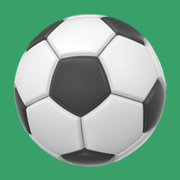
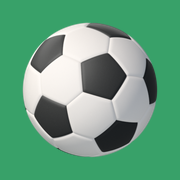
feat(biwenger_tools/web): installable as an app on Android and iPhone (#588)
base.html links /manifest.webmanifest (standalone, start and scope /,
192/512/maskable icons) and registers /sw.js, served from the root with
Cache-Control: no-cache. The worker only answers failed navigations
with static/offline.html and caches nothing else, so a deploy shows on
the next load; it exists because Chrome's automatic install prompt
still wants a fetch handler. CSP gains explicit manifest-src and
worker-src 'self' (both already allowed through their fallbacks).

Icons, including a sharper apple-touch-icon, put Noto Emoji's 3D soccer
ball (Apache 2.0) on the accent green; the maskable one keeps it inside
the safe zone.

diff --git a/packages/biwenger_tools/web/static/offline.html b/packages/biwenger_tools/web/static/offline.html
@@ -1,0 +1,29 @@
+<!DOCTYPE html>
+<html lang="es">
+<head>
+    <meta charset="UTF-8">
+    <meta name="viewport" content="width=device-width, initial-scale=1.0">
+    <meta name="theme-color" content="#38a169">
+    <title>Sin conexión · Lloros League</title>
+    <style>
+        body { margin: 0; min-height: 100vh; display: flex; align-items: center;
+               justify-content: center; background: #f7fafc; color: #2d3748;
+               font-family: Roboto, system-ui, sans-serif; text-align: center; }
+        main { padding: 32px; max-width: 28rem; }
+        .ball { font-size: 64px; line-height: 1; }
+        h1 { font-family: Oswald, system-ui, sans-serif; letter-spacing: 0.05em;
+             margin: 16px 0 8px; }
+        p { color: #4a5568; line-height: 1.6; margin: 0 0 24px; }
+        a { display: inline-block; background: #38a169; color: #fff;
+            padding: 8px 16px; border-radius: 8px; text-decoration: none; }
+    </style>
+</head>
+<body>
+    <main>
+        <div class="ball" aria-hidden="true">⚽</div>
+        <h1>Sin conexión</h1>
+        <p>No hay red ahora mismo. El tablón vuelve en cuanto la haya.</p>
+        <a href="/">Reintentar</a>
+    </main>
+</body>
+</html>

diff --git a/packages/biwenger_tools/web/static/sw.js b/packages/biwenger_tools/web/static/sw.js
@@ -1,0 +1,25 @@
+// Offline fallback for page navigations. Every other request goes straight to
+// the network: nothing else is cached, so a deploy is visible on the next load.
+const CACHE = "offline-v1";
+const OFFLINE_URL = "/static/offline.html";
+
+self.addEventListener("install", (event) => {
+  event.waitUntil(caches.open(CACHE).then((cache) => cache.add(OFFLINE_URL)));
+  self.skipWaiting();
+});
+
+self.addEventListener("activate", (event) => {
+  event.waitUntil(
+    caches
+      .keys()
+      .then((keys) =>
+        Promise.all(keys.filter((key) => key !== CACHE).map((key) => caches.delete(key))),
+      )
+      .then(() => self.clients.claim()),
+  );
+});
+
+self.addEventListener("fetch", (event) => {
+  if (event.request.mode !== "navigate") return;
+  event.respondWith(fetch(event.request).catch(() => caches.match(OFFLINE_URL)));
+});

diff --git a/packages/biwenger_tools/web/templates/base.html b/packages/biwenger_tools/web/templates/base.html
@@ -50,6 +50,7 @@
     <meta name="apple-mobile-web-app-capable" content="yes">
     <meta name="apple-mobile-web-app-status-bar-style" content="default">
     <meta name="theme-color" content="#38a169">
+    <link rel="manifest" href="/manifest.webmanifest">
     <!-- Tailwind ships as the Play CDN, which its own docs call development-only:
          it downloads a compiler and generates styles in the browser on every
          load. The fix is a build step, not an attribute — `defer` was tried and
@@ -256,6 +257,11 @@
         });
 
         document.addEventListener('click', () => seasonMenu.classList.add('hidden'));
+
+        // Installable app: the worker only adds an offline page (static/sw.js).
+        if ('serviceWorker' in navigator) {
+            navigator.serviceWorker.register("/sw.js");
+        }
     </script>
 </body>
 </html>

diff --git a/packages/biwenger_tools/web/routes/main.py b/packages/biwenger_tools/web/routes/main.py
@@ -1,8 +1,11 @@
-"""Main routes: home, favicon, palmares, reglamento, calendario."""
+"""Main routes: home, favicon, the installable-app files, palmares, reglamento,
+calendario."""
 
 import calendar
+import json
 import time
 from datetime import date, datetime
+from pathlib import Path
 
 import icalendar
 import requests
@@ -11,10 +14,12 @@ from flask import (
     Blueprint,
     Response,
     abort,
+    current_app,
     g,
     jsonify,
     redirect,
     render_template,
+    send_from_directory,
     url_for,
 )
 from flask.typing import ResponseReturnValue
@@ -31,6 +36,8 @@ from packages.biwenger_tools.web import config, repository
 
 logger = get_logger(__name__)
 bp = Blueprint("main", __name__)
+
+_STATIC_DIR = Path(__file__).resolve().parent.parent / "static"
 
 # Public "Lloros League" Google Calendar — read-only, season-agnostic.
 # Public by design (see Google Calendar sharing settings), so no secret
@@ -133,6 +140,47 @@ def version() -> Response:
 def favicon() -> tuple:
     """Return empty response for favicon requests."""
     return "", 204
+
+
+def _icon(name: str, size: str, purpose: str = "any") -> dict:
+    return {
+        "src": url_for("static", filename=name),
+        "sizes": size,
+        "type": "image/png",
+        "purpose": purpose,
+    }
+
+
+@bp.route("/manifest.webmanifest")
+def manifest() -> Response:
+    """The web app manifest that lets phones install the site as an app."""
+    body = {
+        "name": "Lloros League",
+        "short_name": "Lloros League",
+        "description": "El tablón de la Lloros League",
+        "lang": "es",
+        "start_url": "/",
+        "scope": "/",
+        "display": "standalone",
+        "background_color": "#f7fafc",
+        "theme_color": "#38a169",
+        "icons": [
+            _icon("icon-192.png", "192x192"),
+            _icon("icon-512.png", "512x512"),
+            _icon("icon-maskable-512.png", "512x512", "maskable"),
+        ],
+    }
+    return current_app.response_class(
+        json.dumps(body, ensure_ascii=False), mimetype="application/manifest+json"
+    )
+
+
+@bp.route("/sw.js")
+def service_worker() -> Response:
+    """The service worker, from the root so its scope is the whole site."""
+    response = send_from_directory(_STATIC_DIR, "sw.js", mimetype="text/javascript")
+    response.headers["Cache-Control"] = "no-cache"
+    return response
 
 
 @bp.route("/")

diff --git a/packages/biwenger_tools/web/tests/test_web_app.py b/packages/biwenger_tools/web/tests/test_web_app.py
@@ -1414,3 +1414,55 @@ def test_a_missing_cursor_is_none_not_a_page():
     client, *_ = _cursor_client(exists=False)
     with patch.object(repository, "get_client", return_value=client):
         assert repository.get_messages_page("26-27", "comunicado", 7, after="x") is None
+
+
+# --- Installable app (PWA) ---
+
+
+def test_the_manifest_declares_an_installable_app(client):
+    """Android's install criteria: a name, a standalone display, a start URL
+    and 192 + 512 icons — each of which must actually be served."""
+    response = client.get("/manifest.webmanifest")
+
+    assert response.status_code == 200
+    assert response.mimetype == "application/manifest+json"
+    manifest = response.get_json(force=True)
+    assert manifest["name"] and manifest["short_name"]
+    assert manifest["start_url"] == "/"
+    assert manifest["scope"] == "/"
+    assert manifest["display"] == "standalone"
+    sizes = {icon["sizes"] for icon in manifest["icons"]}
+    assert {"192x192", "512x512"} <= sizes
+    assert any(icon.get("purpose") == "maskable" for icon in manifest["icons"])
+    for icon in manifest["icons"]:
+        assert client.get(icon["src"]).status_code == 200, icon["src"]
+
+
+def test_the_service_worker_is_served_from_the_root_and_never_cached(client):
+    """Served under /static/ it could only control /static/; cached, a broken
+    worker would outlive its fix."""
+    response = client.get("/sw.js")
+
+    assert response.status_code == 200
+    assert response.mimetype == "text/javascript"
+    assert "no-cache" in response.headers["Cache-Control"]
+    assert 'addEventListener("fetch"' in response.get_data(as_text=True)
+
+
+def test_the_offline_page_the_worker_falls_back_to_exists_and_runs_no_script(
+    client,
+):
+    """The worker precaches it on install; a missing file fails the install."""
+    worker = client.get("/sw.js").get_data(as_text=True)
+    assert "/static/offline.html" in worker
+
+    response = client.get("/static/offline.html")
+    assert response.status_code == 200
+    assert "<script" not in response.get_data(as_text=True)
+
+
+def test_pages_link_the_manifest_and_register_the_worker(client):
+    body = client.get("/reglamento").get_data(as_text=True)
+
+    assert '<link rel="manifest" href="/manifest.webmanifest">' in body
+    assert 'navigator.serviceWorker.register("/sw.js")' in body

diff --git a/packages/biwenger_tools/web/app.py b/packages/biwenger_tools/web/app.py
@@ -28,6 +28,8 @@ CSP = {
     "img-src": ["'self'", "data:", "https://storage.googleapis.com"],
     "frame-src": ["https://www.youtube.com", "https://www.youtube-nocookie.com"],
     "connect-src": ["'self'"],
+    "manifest-src": ["'self'"],
+    "worker-src": ["'self'"],
     "object-src": ["'none'"],
     "base-uri": ["'self'"],
     "form-action": ["'self'"],

diff --git a/packages/biwenger_tools/web/README.md b/packages/biwenger_tools/web/README.md
@@ -21,7 +21,7 @@ Firestore. Se regeneran a mano — ver `docs/` en este módulo.</sub>
 `app.py` builds the Flask app, registers session cookie hardening + CSRF helpers,
 and mounts three blueprints:
 
-- [`routes/main.py`](routes/main.py) — `/version`, `/favicon.ico`, `/`, `/palmares`, `/reglamento`
+- [`routes/main.py`](routes/main.py) — `/version`, `/favicon.ico`, `/manifest.webmanifest`, `/sw.js`, `/`, `/palmares`, `/reglamento`
 - [`routes/season.py`](routes/season.py) — `/<season>/`, `/<season>/salseo`, `/<season>/mercado`, `/<season>/participacion`, `/<season>/lloros-awards` plus the `/api/lloros-awards/*` JSON endpoints
 - [`routes/admin.py`](routes/admin.py) — `/admin` (login + dashboard), `/admin/run-scraper`, `/logout`
 
@@ -39,6 +39,15 @@ never use `|safe` directly on `contenido`.
 Tailwind via CDN + vanilla JavaScript. No build step, no framework. The design
 tokens (colours, typography, components) are documented in
 [`DESIGN.md`](DESIGN.md) — read it before touching templates.
+
+**Installable app (PWA).** Phones can add the site to the home screen and open
+it full screen: `base.html` links `/manifest.webmanifest` and registers
+`/sw.js` (`static/sw.js`), whose only job is `static/offline.html` when there is
+no network — it caches nothing else, so a deploy shows on the next load. On
+Android, Chrome offers "Instalar"; on iPhone, Safari → Share → "Añadir a
+pantalla de inicio". The icons (`static/icon-*.png`, `apple-touch-icon.png`) put
+the 3D soccer ball from [Noto Emoji](https://github.com/googlefonts/noto-emoji)
+(Apache 2.0) on the accent green.
 
 ## ⚙ Local dev
 

diff --git a/PENDING.md b/PENDING.md
@@ -42,7 +42,6 @@ in `STATUS.md` — neither belongs here.
 | ⏳ | What to do when JP and Biwenger disagree on availability | More sightings. **The first real one arrived 19/09**: Haitam, Biwenger `discarded` ("Asuntos incompatibles con la práctica deportiva") against JP's fieldable `other` — so the sensor works and the rate is what the 1-in-481 measurement predicted. One case is still not a rule; JP remains the only source a decision reads |
 | ⏳ | `nextMatch.status == "break"` has never been observed | A break **while a lineup runs** · verified wired, 0 events · same ~20-row window: the sighting needs the status to land on a player I own |
 | ⏳ | Re-measure the auto-bid shares (T1–T4) | More settled auctions — run `scripts/auto_bid/calibrate.py` monthly, **next ~late October** · the first reading (137 auctions, 27/09) set +40/+20/+10/+5 %; the ≥ 10M band had only 9 · [how](packages/biwenger_tools/OPERATIONS.md) |
-| 🔨 | Make `web` an installable PWA (league members get an icon, full screen, no browser bar; Android and iPhone) | ~1 h: `manifest.webmanifest` (name, icons 192/512 + maskable, colours, `display: standalone`), a minimal service worker, `<link rel="manifest">` in `templates/base.html`, and the CSP from #542 allowing `manifest-src 'self'` / `worker-src 'self'` · **not** a Play Store app: tiny private audience, Telegram already does notifications · optional later: a nicer domain than the `run.app` one |
 
 ## my_photos
 

diff --git a/openspec/specs/biwenger_tools/web-dataviz/spec.md b/openspec/specs/biwenger_tools/web-dataviz/spec.md
@@ -334,3 +334,26 @@ when there is not.
   `test_an_unresolved_tie_at_the_top_yields_no_champion`,
   `test_the_champion_is_reachable_as_a_biwenger_manager`,
   `test_the_page_shows_no_champion_mid_season`
+
+### Requirement: The site installs as an app
+
+The site SHALL be installable on Android and iPhone home screens: every page
+SHALL link a web app manifest (name, standalone display, start URL and scope
+`/`, 192 px, 512 px and maskable icons that are all served) and register a
+service worker served from the root, never cached. The worker SHALL only add an
+offline page for navigations; it SHALL NOT cache anything else, so a deploy is
+visible on the next load.
+
+#### Scenario: manifest, worker and offline page
+- **WHEN** `/manifest.webmanifest` is requested **THEN** it is
+  `application/manifest+json` with every install field, and each icon resolves
+- **WHEN** `/sw.js` is requested **THEN** it is JavaScript from the root with
+  `Cache-Control: no-cache` and a `fetch` handler
+- **WHEN** the worker installs **THEN** the offline page it precaches exists and
+  runs no script
+- **WHEN** any page renders **THEN** it links the manifest and registers the
+  worker
+- *Verifies:* `test_the_manifest_declares_an_installable_app`,
+  `test_the_service_worker_is_served_from_the_root_and_never_cached`,
+  `test_the_offline_page_the_worker_falls_back_to_exists_and_runs_no_script`,
+  `test_pages_link_the_manifest_and_register_the_worker`
